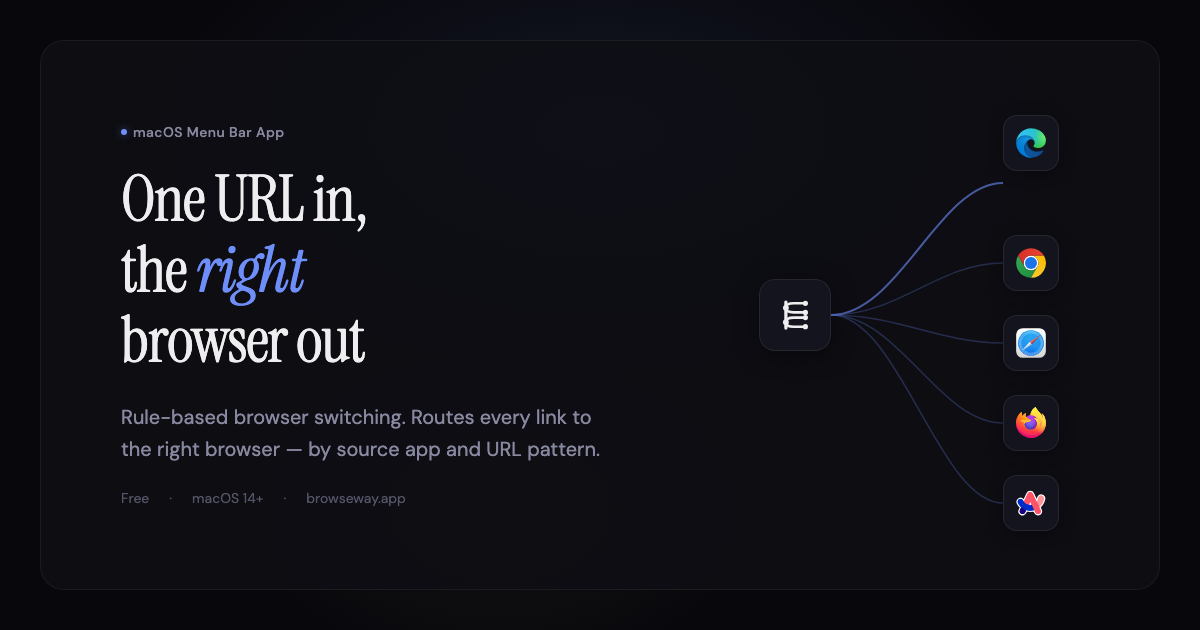
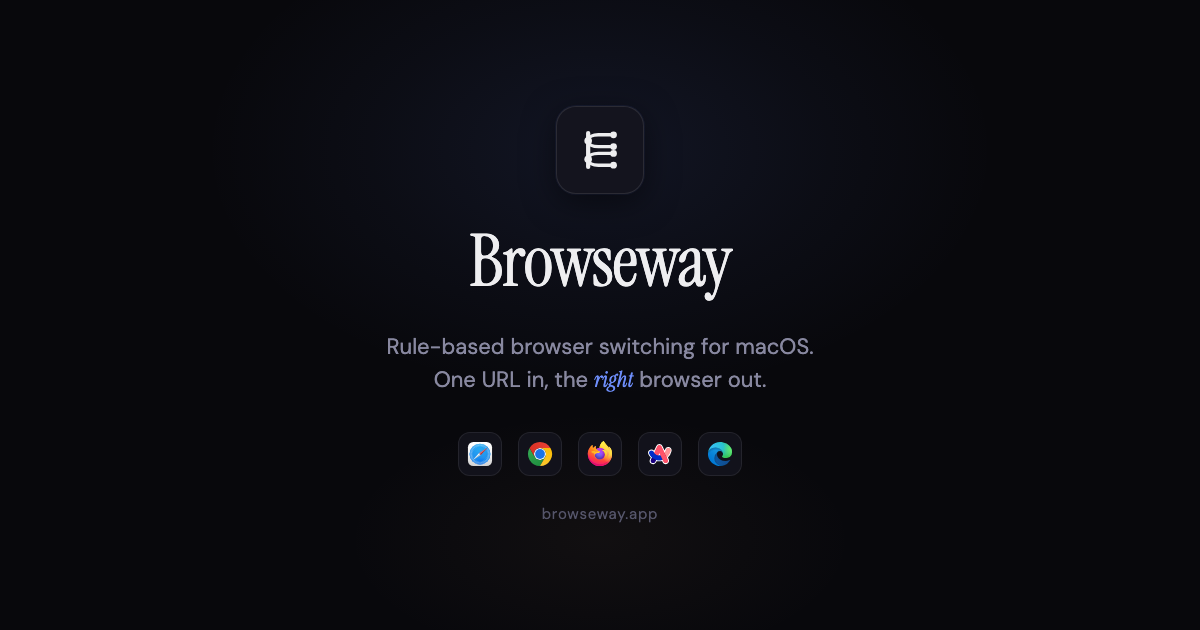
fix: redesign OG image with centered layout for square crop compatibility
WeChat and some platforms crop OG images to square. Moved all key content
(logo, brand name, tagline, browser icons) to center safe zone so it
looks good at both 1200x630 and 630x630 crops.

diff --git a/og-image.html b/og-image.html
@@ -26,10 +26,10 @@
         /* Atmospheric glow */
         .glow-top {
             position: absolute;
-            top: -120px;
+            top: -100px;
             left: 50%;
             transform: translateX(-50%);
-            width: 900px;
+            width: 800px;
             height: 500px;
             background: radial-gradient(
                 ellipse at center,
@@ -41,60 +41,63 @@
         }
         .glow-bottom {
             position: absolute;
-            bottom: -80px;
-            left: 200px;
+            bottom: -60px;
+            left: 50%;
+            transform: translateX(-50%);
             width: 600px;
-            height: 400px;
+            height: 300px;
             background: radial-gradient(
                 ellipse at center,
-                rgba(196, 149, 106, 0.06) 0%,
+                rgba(196, 149, 106, 0.05) 0%,
                 transparent 60%
             );
             pointer-events: none;
         }
 
-        .card {
+        /* Safe zone guide (uncomment to debug) */
+        /*
+        .safe-zone {
+            position: absolute;
+            left: 285px;
+            top: 0;
+            width: 630px;
+            height: 630px;
+            border: 2px dashed rgba(255,0,0,0.3);
+            pointer-events: none;
+            z-index: 999;
+        }
+        */
+
+        .content {
             position: relative;
             z-index: 1;
-            width: 1120px;
-            height: 550px;
-            border: 1px solid rgba(255, 255, 255, 0.06);
-            border-radius: 24px;
-            background: rgba(14, 14, 20, 0.8);
-            display: flex;
-            align-items: center;
-            padding: 0 80px;
-            gap: 64px;
-        }
-
-        .left {
-            flex: 1;
             display: flex;
             flex-direction: column;
-            gap: 24px;
+            align-items: center;
+            text-align: center;
+            gap: 28px;
         }
 
-        .badge {
-            display: inline-flex;
+        /* Logo */
+        .logo-icon {
+            width: 88px;
+            height: 88px;
+            border-radius: 20px;
+            background: #14141e;
+            border: 1px solid rgba(255, 255, 255, 0.1);
+            display: flex;
             align-items: center;
-            gap: 6px;
-            font-size: 14px;
-            font-weight: 500;
-            color: #8888a0;
-            letter-spacing: 0.03em;
+            justify-content: center;
+            box-shadow: 0 8px 32px rgba(0, 0, 0, 0.5), 0 0 0 1px rgba(110, 142, 250, 0.08);
         }
-        .badge::before {
-            content: '';
-            width: 6px;
-            height: 6px;
-            border-radius: 50%;
-            background: #6e8efa;
-            box-shadow: 0 0 8px rgba(110, 142, 250, 0.5);
+        .logo-icon svg {
+            width: 52px;
+            height: 52px;
         }
 
         h1 {
             font-family: 'Instrument Serif', Georgia, serif;
-            font-size: 64px;
+            font-size: 72px;
             font-weight: 400;
             line-height: 1.1;
             letter-spacing: -0.02em;
@@ -106,176 +109,92 @@
         }
 
         .desc {
-            font-size: 20px;
-            line-height: 1.6;
+            font-size: 22px;
+            line-height: 1.5;
             color: #8888a0;
-            max-width: 480px;
+            max-width: 600px;
         }
 
-        .meta {
+        /* Browser strip */
+        .browsers {
             display: flex;
-            gap: 20px;
-            font-size: 14px;
-            color: #55556a;
+            gap: 16px;
+            margin-top: 8px;
         }
-        .meta span {
-            display: flex;
-            align-items: center;
-            gap: 6px;
-        }
-
-        /* Right side: routing diagram */
-        .right {
-            flex-shrink: 0;
-            width: 340px;
-            display: flex;
-            flex-direction: column;
-            align-items: center;
-            gap: 0;
-        }
-
-        .diagram {
-            position: relative;
-            width: 340px;
-            height: 400px;
-        }
-
-        /* App icon - centered left */
-        .app-icon {
-            position: absolute;
-            left: 20px;
-            top: 50%;
-            transform: translateY(-50%);
-            width: 72px;
-            height: 72px;
-            border-radius: 16px;
-            background: #14141e;
+        .browser-dot {
+            width: 44px;
+            height: 44px;
+            border-radius: 12px;
+            background: rgba(20, 20, 30, 0.8);
             border: 1px solid rgba(255, 255, 255, 0.08);
             display: flex;
             align-items: center;
             justify-content: center;
-            box-shadow: 0 4px 24px rgba(0, 0, 0, 0.4);
+        }
+        .browser-dot img {
+            width: 26px;
+            height: 26px;
         }
 
-        .app-icon svg {
-            width: 40px;
-            height: 40px;
-        }
-
-        /* Browser icons - right column */
-        .browser {
+        /* Connection lines behind browsers */
+        .lines-wrap {
             position: absolute;
-            right: 20px;
-            width: 56px;
-            height: 56px;
-            border-radius: 14px;
-            background: #14141e;
-            border: 1px solid rgba(255, 255, 255, 0.08);
-            display: flex;
-            align-items: center;
-            justify-content: center;
-            box-shadow: 0 2px 16px rgba(0, 0, 0, 0.3);
-        }
-        .browser img {
-            width: 32px;
-            height: 32px;
-        }
-        .browser:nth-child(2) { top: 40px; }
-        .browser:nth-child(3) { top: 120px; }
-        .browser:nth-child(4) { top: 200px; }
-        .browser:nth-child(5) { top: 280px; }
-        .browser:nth-child(6) { top: 360px; }
-
-        /* Connection lines */
-        .lines {
-            position: absolute;
-            inset: 0;
+            bottom: 80px;
+            left: 50%;
+            transform: translateX(-50%);
+            width: 500px;
+            height: 80px;
             pointer-events: none;
         }
-        .lines svg {
+        .lines-wrap svg {
             width: 100%;
             height: 100%;
         }
-        .line {
-            stroke: rgba(110, 142, 250, 0.25);
-            stroke-width: 1.5;
-            fill: none;
-        }
-        .line.active {
-            stroke: rgba(110, 142, 250, 0.6);
-            stroke-width: 2;
-        }
 
-        /* Domain label */
-        .url-tag {
-            font-size: 11px;
-            font-family: 'DM Sans', monospace;
+        .meta {
+            font-size: 15px;
             color: #55556a;
-            background: rgba(110, 142, 250, 0.08);
-            border: 1px solid rgba(110, 142, 250, 0.15);
-            border-radius: 6px;
-            padding: 3px 8px;
-            position: absolute;
+            letter-spacing: 0.05em;
         }
     </style>
 </head>
 <body>
     <div class="glow-top"></div>
     <div class="glow-bottom"></div>
+    <!-- <div class="safe-zone"></div> -->
 
-    <div class="card">
-        <div class="left">
-            <div class="badge">macOS Menu Bar App</div>
-            <h1>One URL in,<br>the <em>right</em><br>browser out</h1>
-            <p class="desc">Rule-based browser switching. Routes every link to the right browser — by source app and URL pattern.</p>
-            <div class="meta">
-                <span>Free</span>
-                <span>&middot;</span>
-                <span>macOS 14+</span>
-                <span>&middot;</span>
-                <span>browseway.app</span>
-            </div>
+    <div class="content">
+        <div class="logo-icon">
+            <svg viewBox="0 0 48 48" fill="none">
+                <g transform="translate(24,24) scale(0.78) translate(-24,-24)">
+                    <path d="M 10 4 V 44" stroke="#eeeef0" stroke-width="5" stroke-linecap="round" stroke-linejoin="round"/>
+                    <path d="M 10 13 C 10 8, 16 6, 22 6 L 36 6" stroke="#eeeef0" stroke-width="4" stroke-linecap="round" stroke-linejoin="round"/>
+                    <path d="M 10 13 C 10 18, 16 20, 22 20 L 36 20" stroke="#eeeef0" stroke-width="4" stroke-linecap="round" stroke-linejoin="round"/>
+                    <path d="M 10 35 C 10 30, 16 28, 22 28 L 36 28" stroke="#eeeef0" stroke-width="4" stroke-linecap="round" stroke-linejoin="round"/>
+                    <path d="M 10 35 C 10 40, 16 42, 22 42 L 36 42" stroke="#eeeef0" stroke-width="4" stroke-linecap="round" stroke-linejoin="round"/>
+                    <circle cx="10" cy="13" r="4.5" fill="#eeeef0"/>
+                    <circle cx="10" cy="35" r="4.5" fill="#eeeef0"/>
+                    <circle cx="40" cy="6" r="4" fill="#eeeef0"/>
+                    <circle cx="40" cy="20" r="4" fill="#eeeef0"/>
+                    <circle cx="40" cy="28" r="4" fill="#eeeef0"/>
+                    <circle cx="40" cy="42" r="4" fill="#eeeef0"/>
+                </g>
+            </svg>
         </div>
 
-        <div class="right">
-            <div class="diagram">
-                <!-- Connection lines -->
-                <svg class="lines" viewBox="0 0 340 400">
-                    <!-- From Browseway icon center (56, 200) to each browser center (264, y) -->
-                    <path class="line active" d="M 92 200 C 160 200, 200 68, 264 68" />
-                    <path class="line" d="M 92 200 C 160 200, 200 148, 264 148" />
-                    <path class="line" d="M 92 200 C 160 200, 200 228, 264 228" />
-                    <path class="line" d="M 92 200 C 160 200, 200 308, 264 308" />
-                    <path class="line" d="M 92 200 C 160 200, 200 388, 264 388" />
-                </svg>
+        <h1>Browseway</h1>
 
-                <!-- Browseway app icon -->
-                <div class="app-icon">
-                    <svg viewBox="0 0 48 48" fill="none">
-                        <g transform="translate(24,24) scale(0.78) translate(-24,-24)">
-                            <path d="M 10 4 V 44" stroke="#eeeef0" stroke-width="5" stroke-linecap="round" stroke-linejoin="round"/>
-                            <path d="M 10 13 C 10 8, 16 6, 22 6 L 36 6" stroke="#eeeef0" stroke-width="4" stroke-linecap="round" stroke-linejoin="round"/>
-                            <path d="M 10 13 C 10 18, 16 20, 22 20 L 36 20" stroke="#eeeef0" stroke-width="4" stroke-linecap="round" stroke-linejoin="round"/>
-                            <path d="M 10 35 C 10 30, 16 28, 22 28 L 36 28" stroke="#eeeef0" stroke-width="4" stroke-linecap="round" stroke-linejoin="round"/>
-                            <path d="M 10 35 C 10 40, 16 42, 22 42 L 36 42" stroke="#eeeef0" stroke-width="4" stroke-linecap="round" stroke-linejoin="round"/>
-                            <circle cx="10" cy="13" r="4.5" fill="#eeeef0"/>
-                            <circle cx="10" cy="35" r="4.5" fill="#eeeef0"/>
-                            <circle cx="40" cy="6" r="4" fill="#eeeef0"/>
-                            <circle cx="40" cy="20" r="4" fill="#eeeef0"/>
-                            <circle cx="40" cy="28" r="4" fill="#eeeef0"/>
-                            <circle cx="40" cy="42" r="4" fill="#eeeef0"/>
-                        </g>
-                    </svg>
-                </div>
+        <p class="desc">Rule-based browser switching for macOS.<br>One URL in, the <em style="color:#6e8efa; font-style:italic; font-family:'Instrument Serif',serif;">right</em> browser out.</p>
 
-                <!-- Browser icons -->
-                <div class="browser"><img src="icons/chrome.svg" alt="Chrome"></div>
-                <div class="browser"><img src="icons/safari.svg" alt="Safari"></div>
-                <div class="browser"><img src="icons/firefox.svg" alt="Firefox"></div>
-                <div class="browser"><img src="icons/arc.svg" alt="Arc"></div>
-                <div class="browser"><img src="icons/edge.svg" alt="Edge"></div>
-            </div>
+        <div class="browsers">
+            <div class="browser-dot"><img src="icons/safari.svg" alt="Safari"></div>
+            <div class="browser-dot"><img src="icons/chrome.svg" alt="Chrome"></div>
+            <div class="browser-dot"><img src="icons/firefox.svg" alt="Firefox"></div>
+            <div class="browser-dot"><img src="icons/arc.svg" alt="Arc"></div>
+            <div class="browser-dot"><img src="icons/edge.svg" alt="Edge"></div>
         </div>
+
+        <p class="meta">browseway.app</p>
     </div>
 </body>
 </html>
